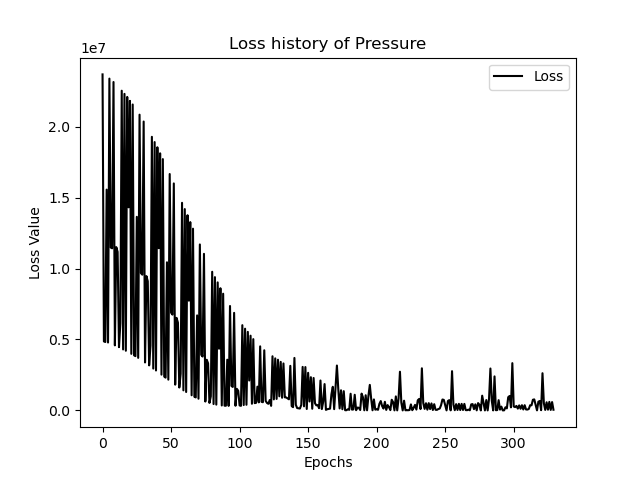
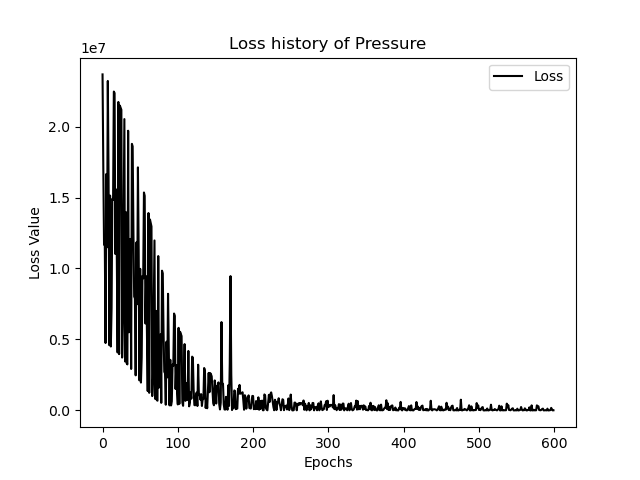
pres re-trained and the loss function converged better

diff --git a/FNN/FNN_P.py b/FNN/FNN_P.py
@@ -430,12 +430,12 @@ R.saveLossHistory2PNG()
 # 预测
 
 fsDataset_test = FSimDataset(filePathH5, listTestCase)
-print(listTestCase)
+#print(listTestCase)
 
 #len_test = fsDataset_test.numCases
 # for C025
 inp, pField, coords = fsDataset_test[0]
-print(fsDataset_test.caseList)
+#print(fsDataset_test.caseList)
 #print(type(inp), type(pField))
 
 #outPresTorch = R.forward(inp)
